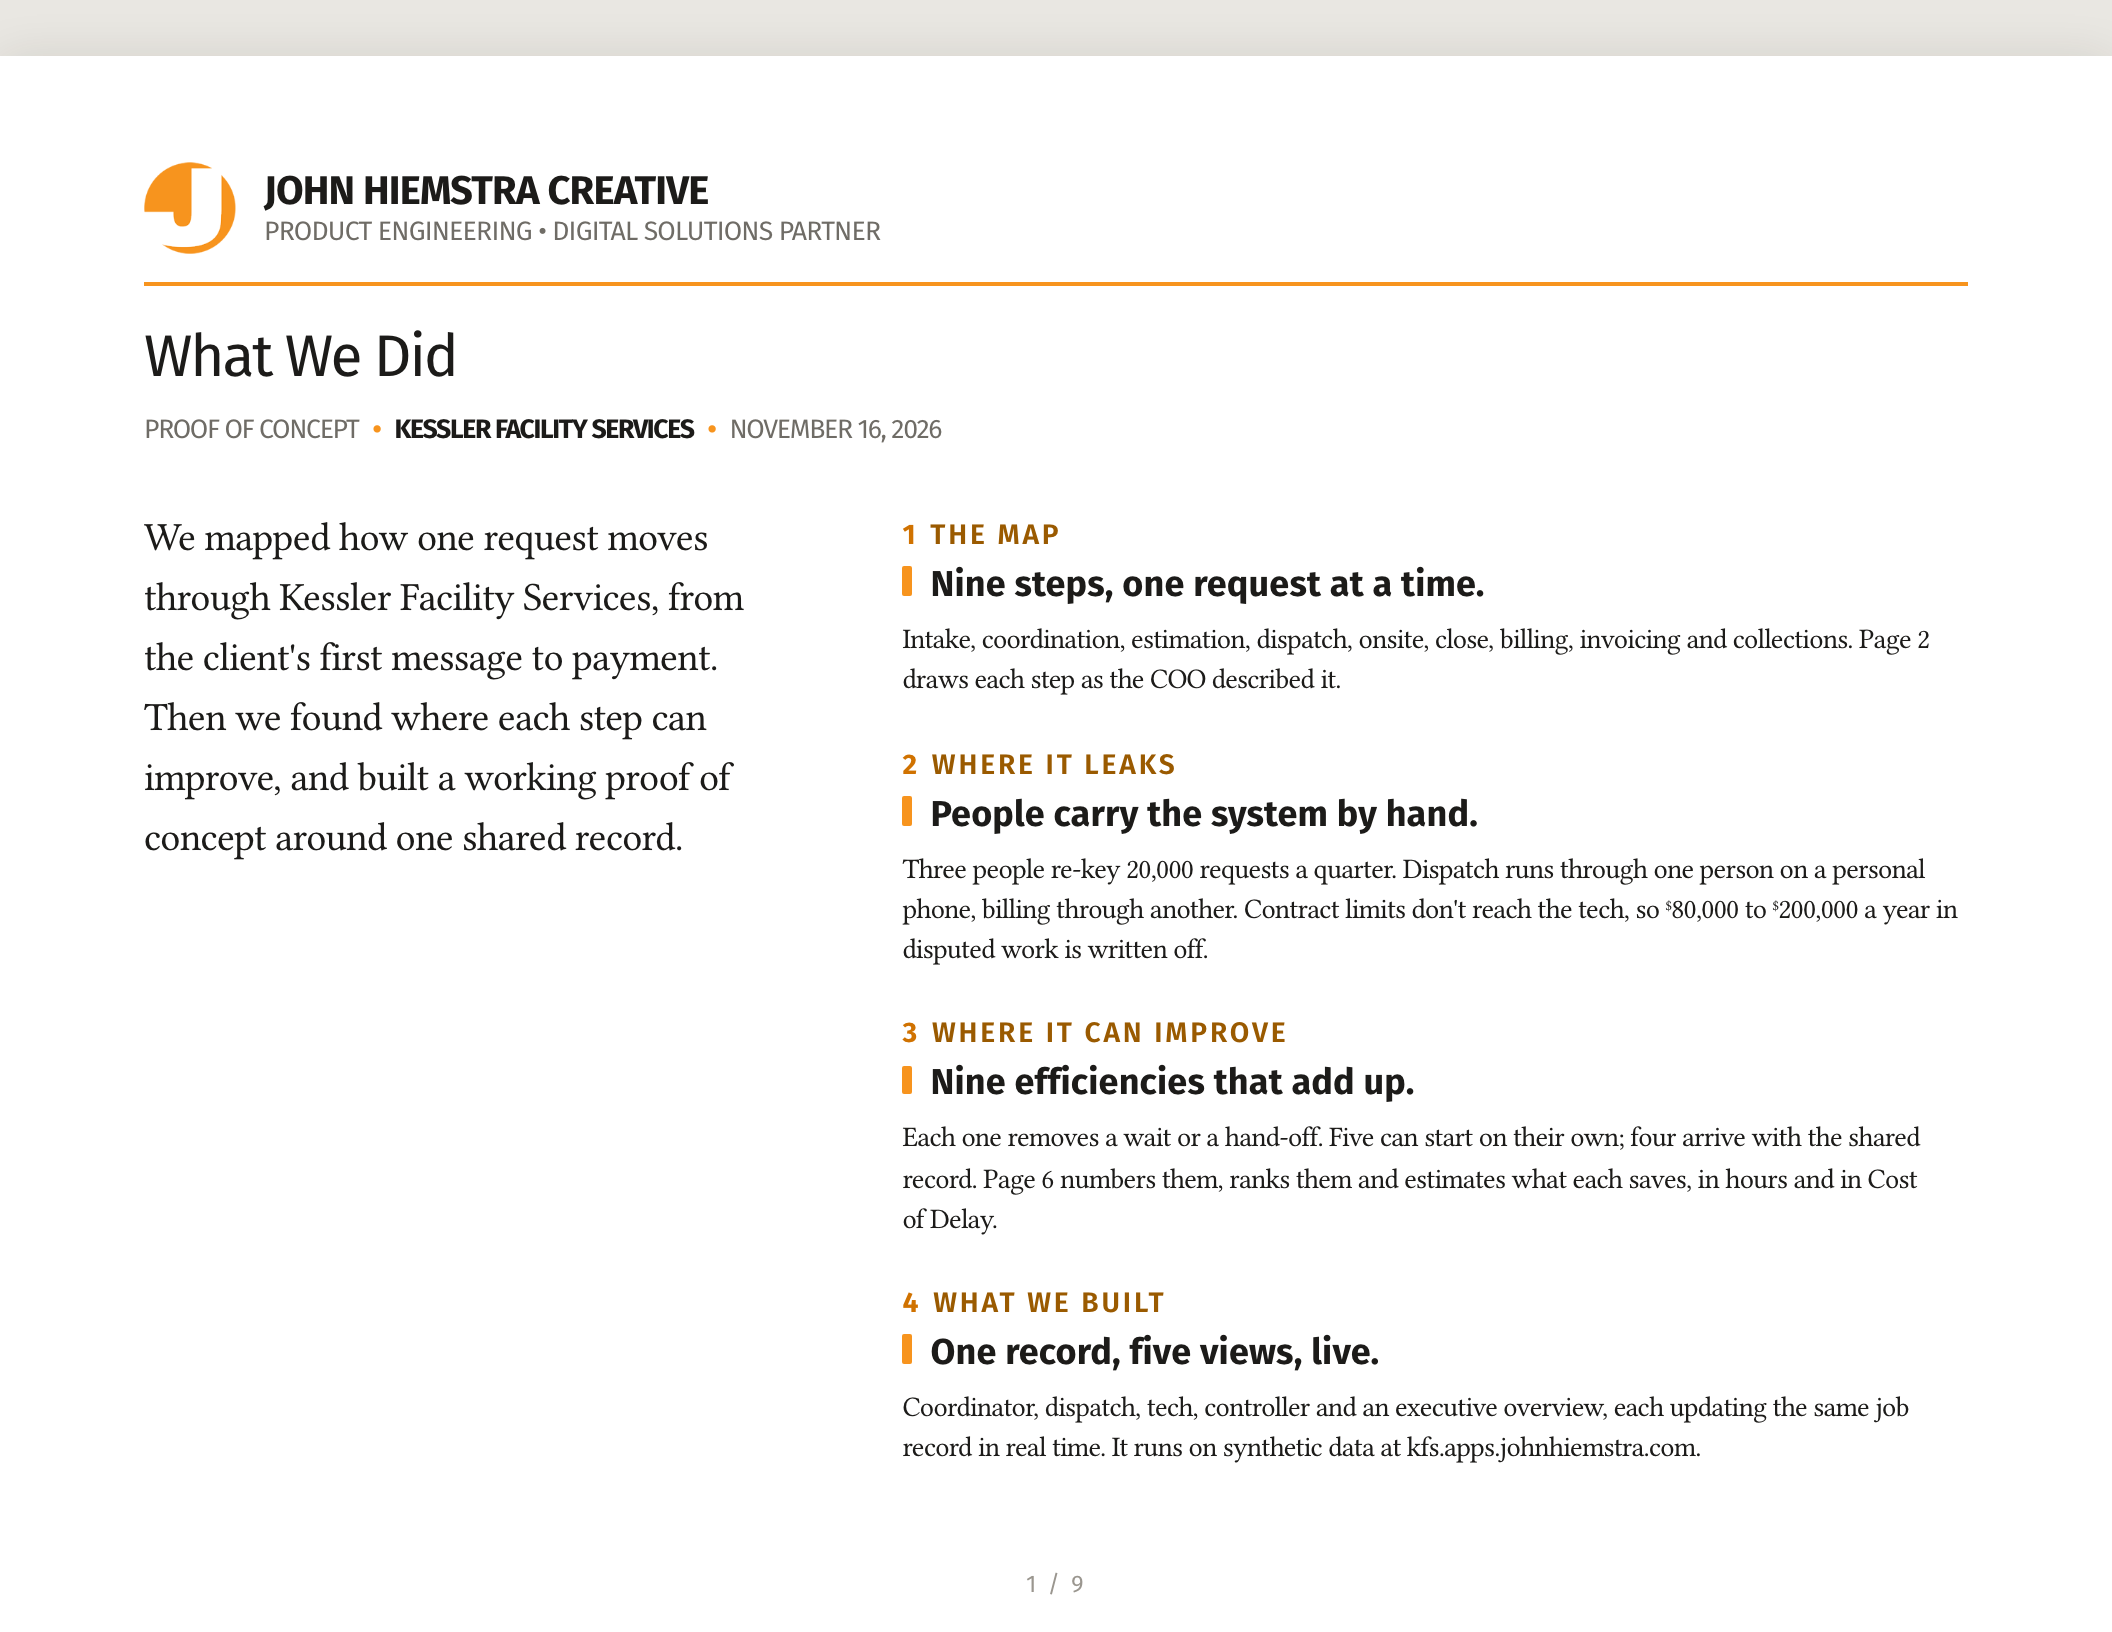
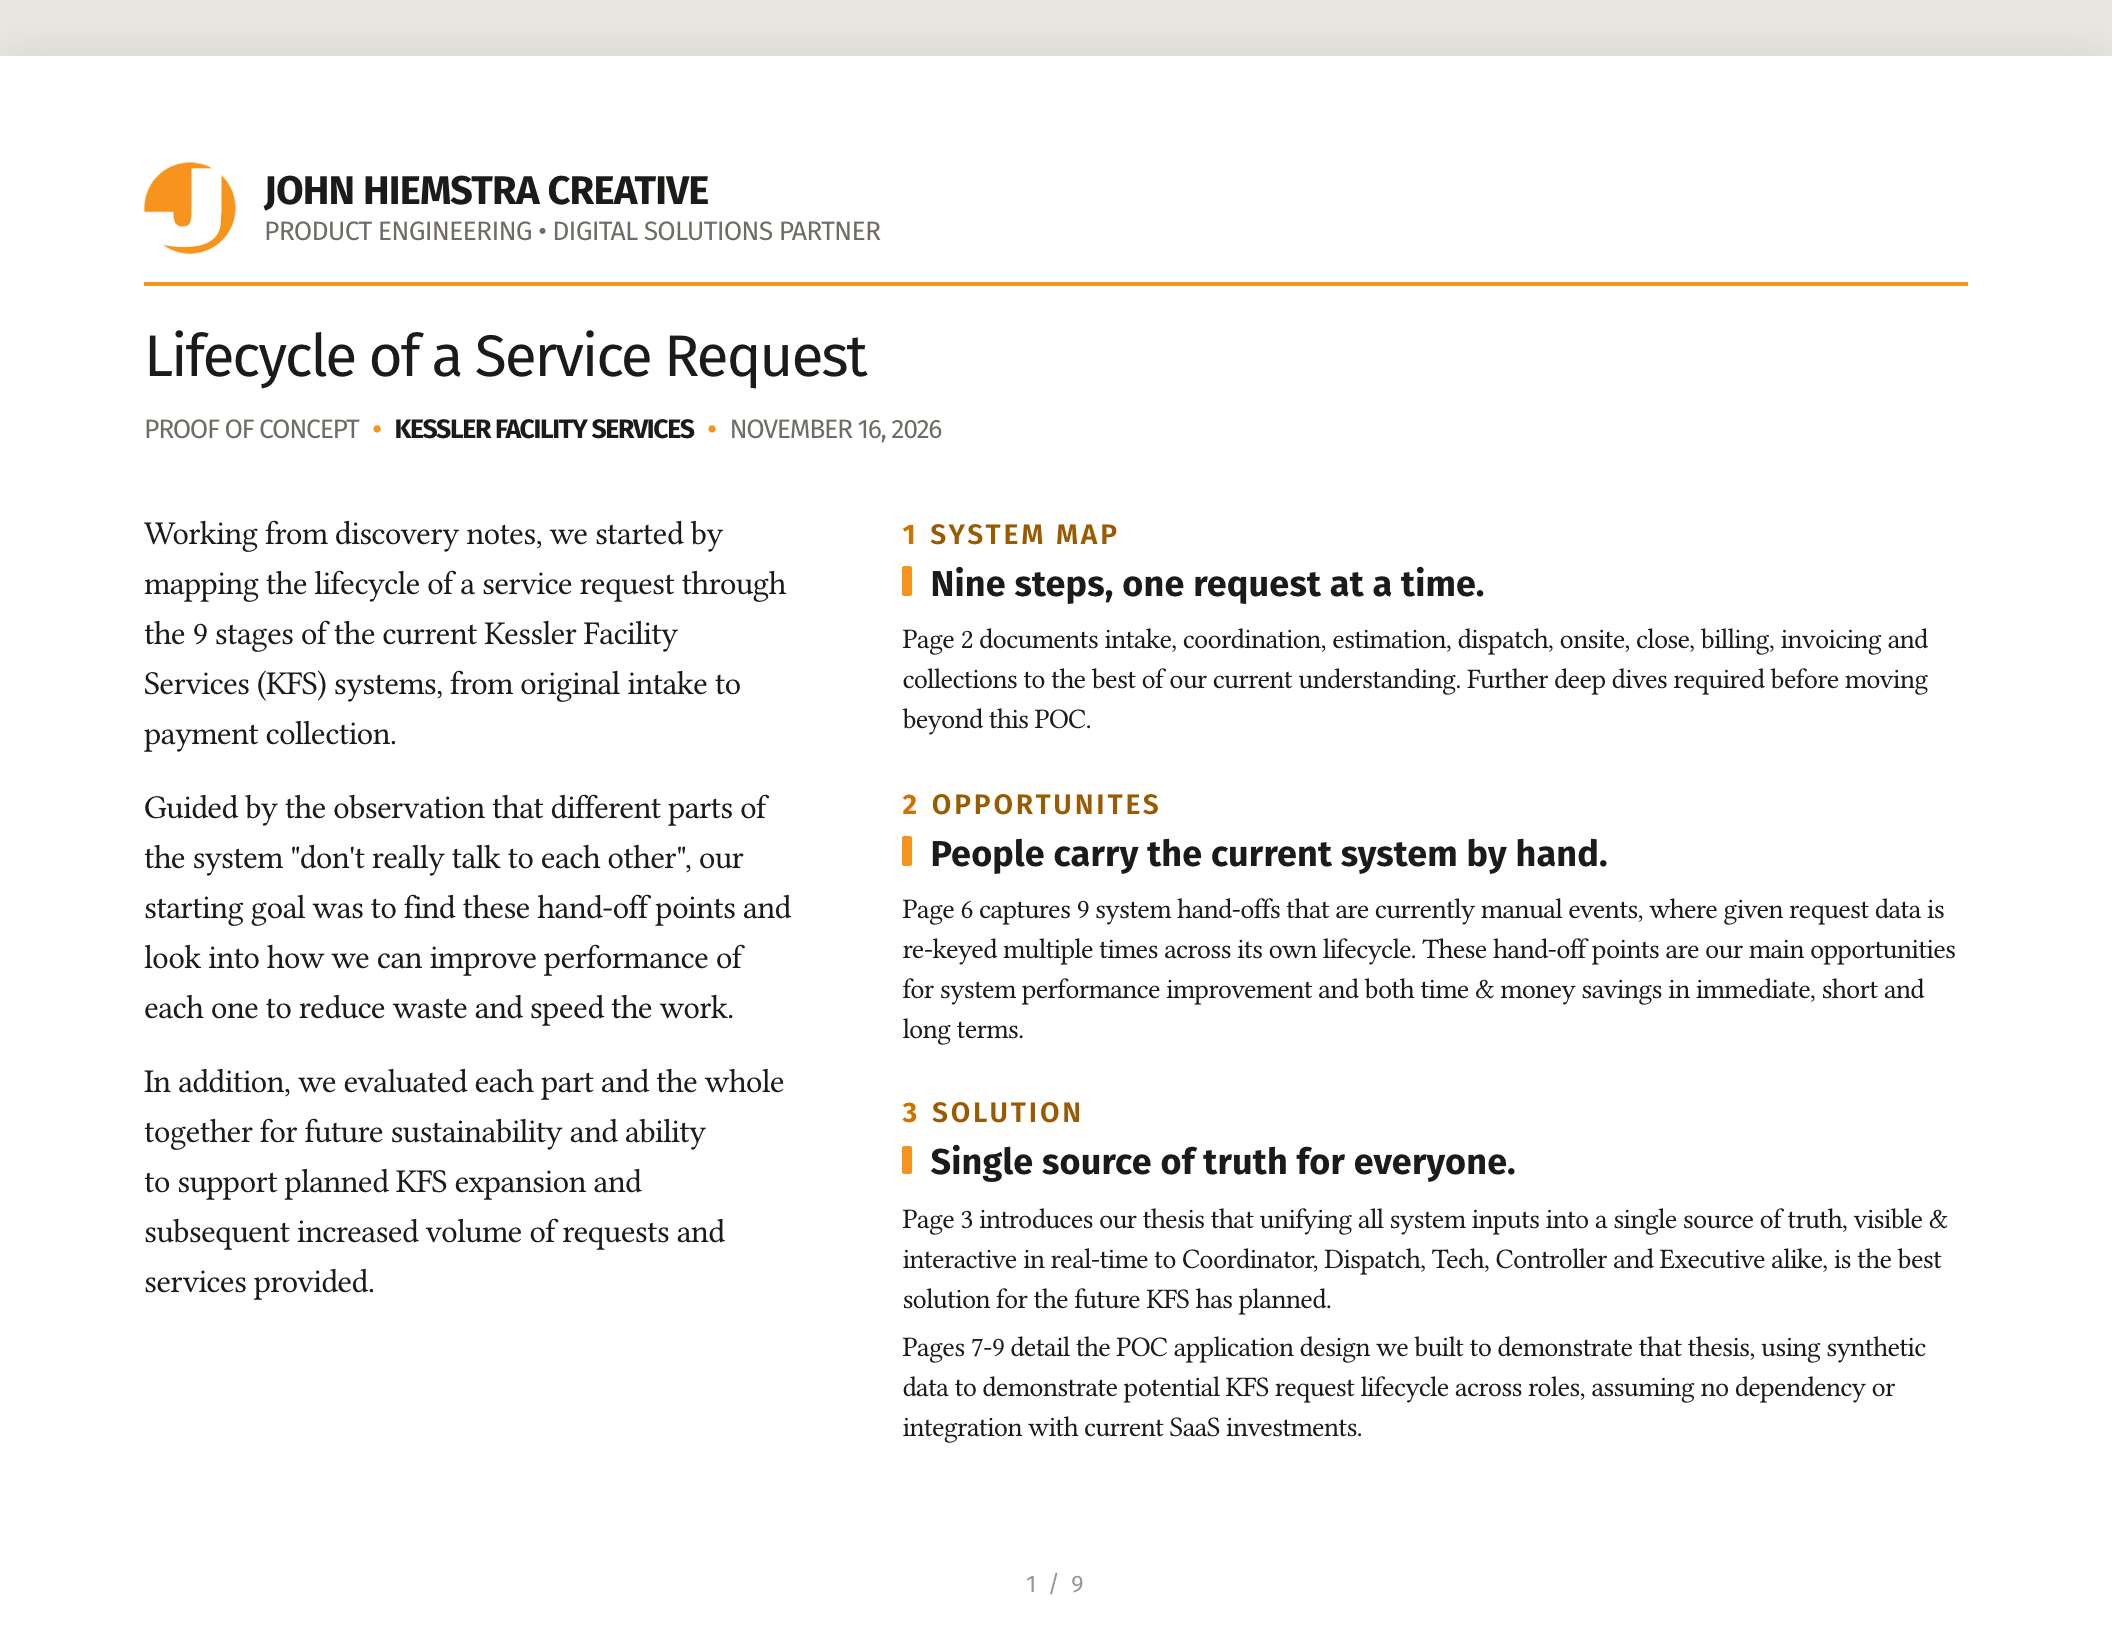
v0.1.2 live at kfs: release notes, status; page 1 held to two columns (Rob, Angela)

diff --git a/docs/flow/final/page-1.html b/docs/flow/final/page-1.html
@@ -35,55 +35,58 @@
       </div>
       <div class="twocol">
         <p class="dek">
-          Working from discovery notes, we started by mapping the lifecycle of a service request
-          through the 9 stages of the current Kessler Facility Services (KFS) systems, from
-          original intake to payment collection.</p>
-        <p class="dek">Guided by the observation that different parts of the system "don't really
-          talk to each other", our starting goal was to find these hand-off points and look into
-          how we can improve performance of each one to reduce waste and speed the work.
+          Working from discovery notes, we started by mapping the lifecycle of a service request through the 9 stages of
+          the current Kessler Facility Services (KFS) systems, from original intake to payment collection.
         </p>
-        <p class="dek">In addition, we evaluated each part and the whole together for
-          future sustainability and ability to support planned KFS expansion and
-          subsequent increased volume of requests and services provided.
+        <p class="dek">
+          Guided by the observation that different parts of the system "don't really talk to each other", our starting
+          goal was to find these hand-off points and look into how we can improve performance of each one to reduce
+          waste and speed the work.
+        </p>
+        <p class="dek">
+          In addition, we evaluated each part and the whole together for future sustainability and ability to support
+          planned KFS expansion and subsequent increased volume of requests and services provided.
+        </p>
+
         <div class="sections">
           <div class="sec">
             <p class="k"><b>1</b>SYSTEM MAP</p>
             <h2>Nine steps, one request at a time.</h2>
             <p>
-              Page 2 documents intake, coordination, estimation, dispatch, onsite, close, billing,
-              invoicing and collections to the best of our current understanding. Further deep
-              dives required before moving beyond this POC.
+              Page 2 documents intake, coordination, estimation, dispatch, onsite, close, billing, invoicing and
+              collections to the best of our current understanding. Further deep dives required before moving beyond
+              this POC.
             </p>
           </div>
           <div class="sec">
             <p class="k"><b>2</b>OPPORTUNITES</p>
             <h2>People carry the current system by hand.</h2>
             <p>
-              Page 6 captures 9 system hand-offs that are currently manual events,
-              where given request data is re-keyed multiple times across its own
-              lifecycle. These hand-off points are our main opportunities for system performance
-              improvement and both time & money savings in immediate, short and long terms.
+              Page 6 captures 9 system hand-offs that are currently manual events, where given request data is re-keyed
+              multiple times across its own lifecycle. These hand-off points are our main opportunities for system
+              performance improvement and both time & money savings in immediate, short and long terms.
             </p>
           </div>
-<!--          <div class="sec">-->
-<!--            <p class="k"><b>3</b>WHERE IT CAN IMPROVE</p>-->
-<!--            <h2>Nine efficiencies that add up.</h2>-->
-<!--            <p>-->
-<!--              Each one removes a wait or a hand-off. Five can start on their own; four arrive with the shared record.-->
-<!--              Page 6 numbers them, ranks them and estimates what each saves, in hours and in Cost of Delay.-->
-<!--            </p>-->
-<!--          </div>-->
+          <!--          <div class="sec">-->
+          <!--            <p class="k"><b>3</b>WHERE IT CAN IMPROVE</p>-->
+          <!--            <h2>Nine efficiencies that add up.</h2>-->
+          <!--            <p>-->
+          <!--              Each one removes a wait or a hand-off. Five can start on their own; four arrive with the shared record.-->
+          <!--              Page 6 numbers them, ranks them and estimates what each saves, in hours and in Cost of Delay.-->
+          <!--            </p>-->
+          <!--          </div>-->
           <div class="sec">
             <p class="k"><b>3</b>SOLUTION</p>
             <h2>Single source of truth for everyone.</h2>
-            <p>Page 3 introduces our thesis that unifying all system inputs into
-              a single source of truth, visible & interactive in real-time to Coordinator,
-              Dispatch, Tech, Controller and Executive alike, is the best solution for the future
-              KFS has planned.
+            <p>
+              Page 3 introduces our thesis that unifying all system inputs into a single source of truth, visible &
+              interactive in real-time to Coordinator, Dispatch, Tech, Controller and Executive alike, is the best
+              solution for the future KFS has planned.
             </p>
-            <p>Pages 7-9 detail the POC application design we built to demonstrate that thesis,
-              using synthetic data to demonstrate potential KFS request lifecycle across roles,
-              assuming no dependency or integration with current SaaS investments.
+            <p>
+              Pages 7-9 detail the POC application design we built to demonstrate that thesis, using synthetic data to
+              demonstrate potential KFS request lifecycle across roles, assuming no dependency or integration with
+              current SaaS investments.
             </p>
           </div>
         </div>

diff --git a/docs/flow/final/page-2.html b/docs/flow/final/page-2.html
@@ -143,8 +143,8 @@
       </div>
       <p class="dek">
         Current request flow requires complex human facilitation at multiple points, including manual data entry,
-        professional analysis, decision making and notification responsibilities all in a single
-        human role, increasing risk to efficient scaling and expansion.
+        professional analysis, decision making and notification responsibilities all in a single human role, creating
+        concerns for efficient scaling and expansion.
       </p>
       <svg class="fig" viewBox="-2 -2 962 504" xmlns="http://www.w3.org/2000/svg" style="width: 9.5in; margin-top: 8px">
         <defs>

diff --git a/docs/flow/final/final.css b/docs/flow/final/final.css
@@ -75,3 +75,8 @@ table.opps.nine + .note{margin-top:4px;}
 
 /* The company's name in the meta line, bold and black (John, 2026-11-17) */
 .meta b{font-weight:700;color:#1c1b19;}
+
+/* Two columns, held (John, 2026-11-17): every text paragraph in the left column, the sections in the right */
+.twocol{grid-auto-flow:row dense;}
+.twocol > .dek{grid-column:1;font-size:12.5pt;line-height:1.5;margin:0 0 12px;}
+.twocol > .sections{grid-column:2;grid-row:1 / span 12;}

diff --git a/docs/releases/v0.1.2.md b/docs/releases/v0.1.2.md
@@ -1,0 +1,25 @@
+# v0.1.2: Kessler Facility Services, at kfs.apps.johnhiemstra.com
+
+**Released 2026-11-17 (John's go: "get the kfs deploy complete for manual testing"; `SNAPSHOT_TAKEN=yes app/scripts/ship.sh --box deploy@15.204.245.239`, sent by John and run by the agent).** Live at https://kfs.apps.johnhiemstra.com, images `733887b`.
+
+## What changed
+
+- The client is **Kessler Facility Services** (was OneFamilyServices): the login page, the browser tab, the API title and Claude's drafting prompt.
+- **The domain is kfs.apps.johnhiemstra.com.** A record added by John (Cloudflare, grey cloud); the edge routes kfs and no longer ofs; the box's `ALLOWED_ORIGINS` is kfs (`.env` backed up with a UTC stamp first); reverse DNS → kfs.
+- **The demo logins are `@kfs.com`**, all five with one shared password (John: "same password for all accounts for easier demo"). The secrets files were backed up with UTC stamps first; the old `@ofs.com` users were deleted from the box.
+
+## Evidence
+
+| Gate | Result |
+|---|---|
+| Local gate at `733887b` | green: 116 backend, 7 frontend unit, lint, types |
+| Browser e2e with the `@kfs.com` logins | 13 of 13 (2026-11-17T17:44Z) |
+| Ship | exit 0; the edge carries kfs to one container |
+| `check-live.py https://kfs.apps.johnhiemstra.com` | 7 of 7 (R1: 3.1 s, drafting included) |
+| Users on the box | exactly the five `@kfs.com` logins |
+| Demo data | reseeded after the live check: 45 jobs, 15 invoices |
+| ofs.apps.johnhiemstra.com | no longer answers (route removed; its DNS record can be deleted) |
+
+## Rollback
+
+The OVH snapshot `66cf4cb3` (2026-11-17 17:11 UTC: v0.1.1 on ofs, before the rename) restores the whole box, ofs route and `.env` included: `ovh-vps.py --env ~/jhc/secrets/ovhcloud/jhc-apps-api.env revert vps-3e8f42b5.vps.ovh.us`. `ship.sh --rollback a657757` alone would not: that image expects the ofs alias and origin. John's call (OPS-5).

diff --git a/docs/status.md b/docs/status.md
@@ -1,13 +1,13 @@
 # Jahnel Group POC: status
 
-Updated: 2026-11-17 (Angela, v0.1.1 live; the deck at nine gears)
+Updated: 2026-11-17 (Angela, v0.1.2 live at kfs; Kessler Facility Services)
 Kind: prospect
 Repo: `~/jhc/prospects/jahnel-poc` · Remote: `jhcreative/jahnel-poc` (private, main; created 2026-11-16)
 App: `app/` in this repo, local at http://localhost:9219 (API only until POC-06)
 
 ## Live
 
-**https://ofs.apps.johnhiemstra.com**, images `a657757` (v0.1.1, `docs/releases/v0.1.1.md`), shipped 2026-11-17 by John (`ship.sh`) on `vps-3e8f42b5` (15.204.245.239). `check-live.py`: 7 of 7. Demo data reseeded after the check (45 jobs, invoices at the new rate; logins kept). Box logins: `~/jhc/secrets/jahnel-poc/box-apps-demo-logins.env`; they're on page 9 of the PDF too (John, 2026-11-17: the app comes down within the week).
+**https://kfs.apps.johnhiemstra.com**, images `733887b` (v0.1.2, `docs/releases/v0.1.2.md`), 2026-11-17. The client is Kessler Facility Services. `check-live.py`: 7 of 7. Logins: five `@kfs.com`, one shared password, in `~/jhc/secrets/jahnel-poc/box-apps-demo-logins.env` and on page 9 of the PDF (the app comes down within the week, John). ofs.apps no longer answers.
 
 ## Delivery (plan `docs/plans/2026-11-16-final-presentation.md`)
 
@@ -22,7 +22,7 @@ App: `app/` in this repo, local at http://localhost:9219 (API only until POC-06)
 
 ## Rollback
 
-`ship.sh --box deploy@15.204.245.239 --rollback 110bf61`, or the OVH snapshot `92d5186e` (2026-11-17 15:29 UTC, v0.1.0 running): `ovh-vps.py --env ~/jhc/secrets/ovhcloud/jhc-apps-api.env revert vps-3e8f42b5.vps.ovh.us`. Either is John's (OPS-5).
+The OVH snapshot `66cf4cb3` (v0.1.1 on ofs, before the rename): `ovh-vps.py --env ~/jhc/secrets/ovhcloud/jhc-apps-api.env revert vps-3e8f42b5.vps.ovh.us`. John's (OPS-5).
 
 ## Next
 
